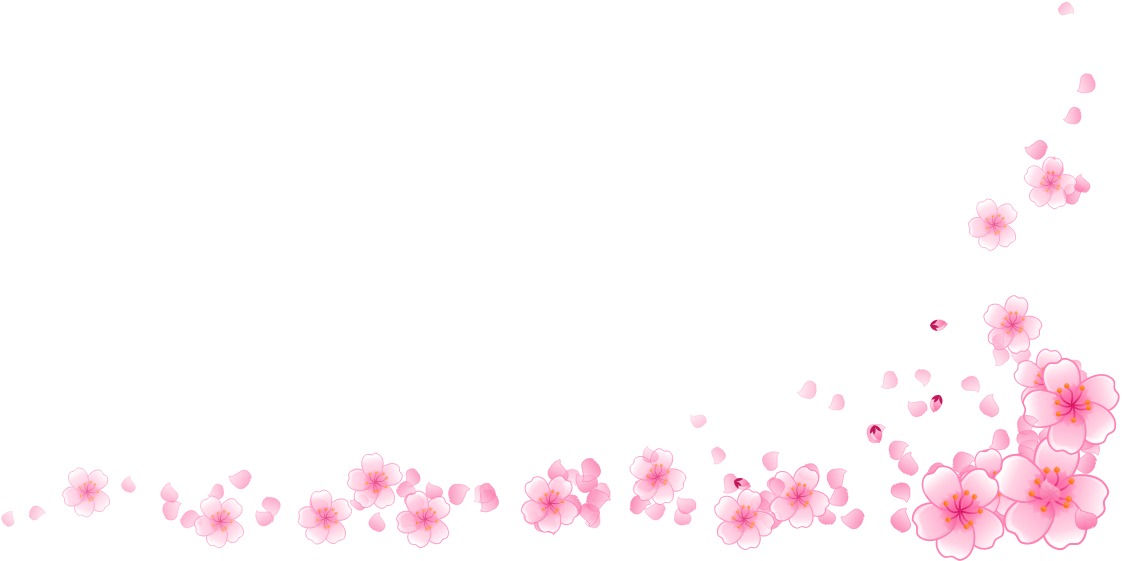
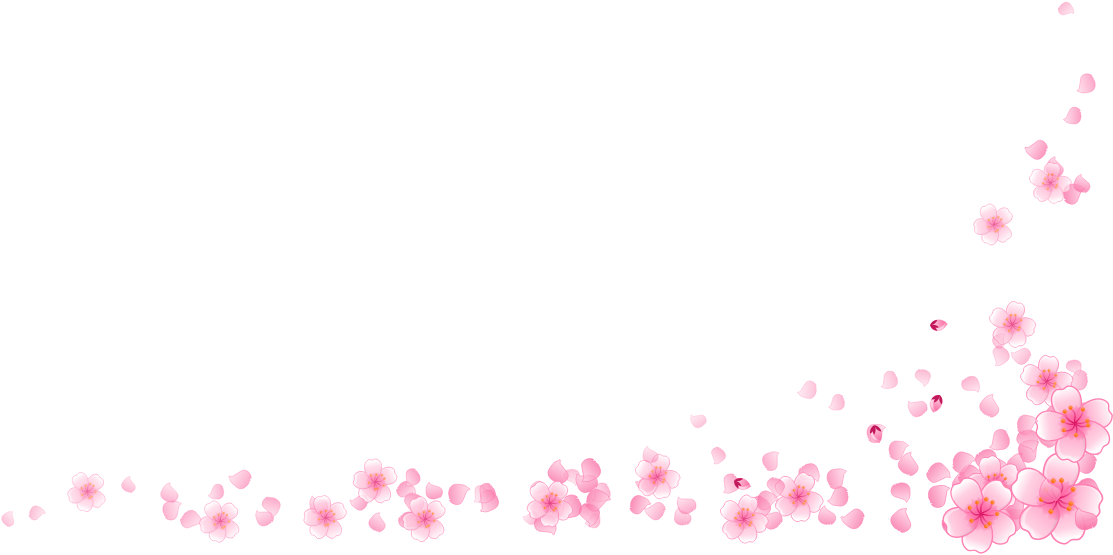
樱花主题右下角点缀的花朵缩小到原来的八成，拐角大花随之往拐角收拢，散落布局不变

diff --git a/dstools/qt/ornaments.py b/dstools/qt/ornaments.py
@@ -49,7 +49,7 @@ _SPRITES: dict[str, tuple[Sprite, ...]] = {
         # 右上呼应：拐角一朵大花，沿上边往左、沿右边往下各一串
         Sprite("sakura_spray_corner.png", 1, 0, -228.5, 132, 322),
         # 右下角：拐角几朵大花，花朵花瓣沿下边缘向左散落、越往左越贴边越稀，右边花朵上方也飘几片；左下角留白
-        Sprite("sakura_spray_bottom.png", 1, 1, -179, -83.5, 187),
+        Sprite("sakura_spray_bottom.png", 1, 1, -180.5, -84.5, 185),
     ),
 }
 
